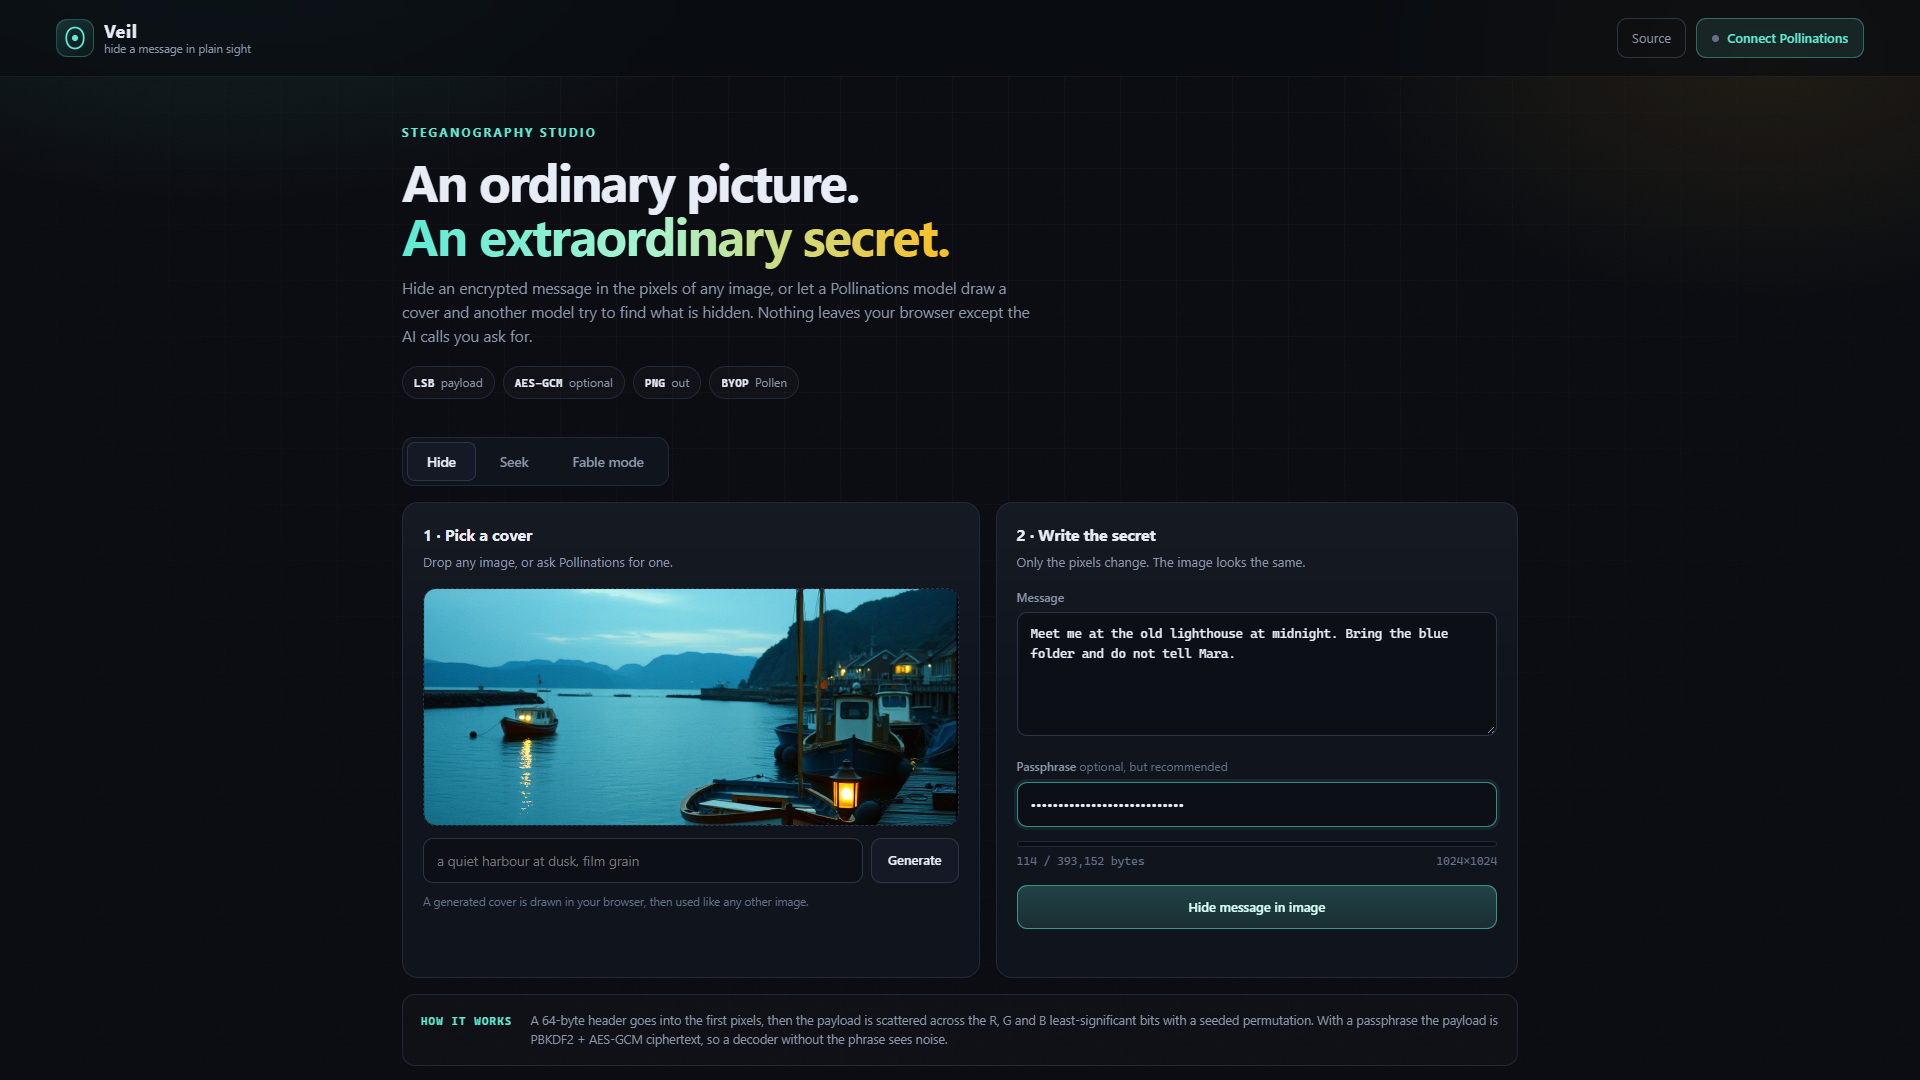
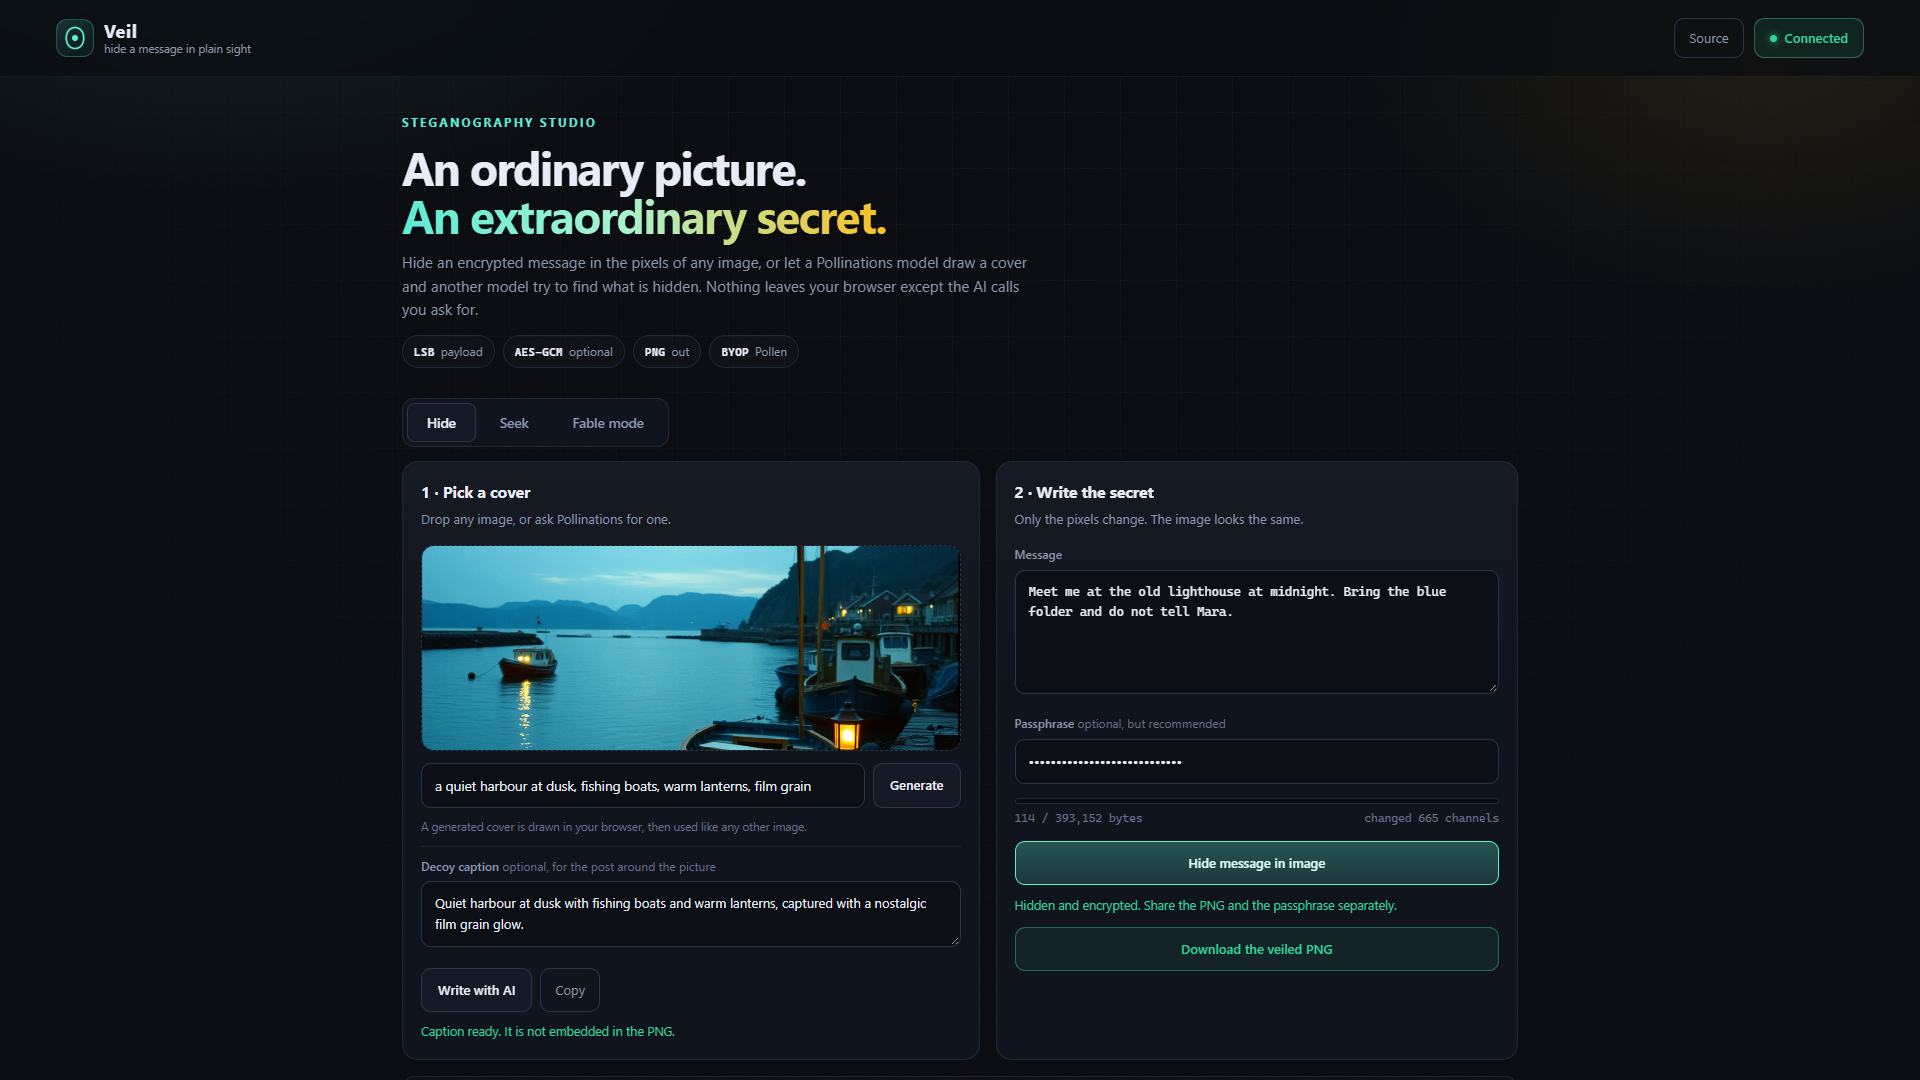
Add AI decoy captions and tighten the layout

diff --git a/styles.css b/styles.css
@@ -190,7 +190,7 @@ main {
 }
 
 .hero {
-    padding: clamp(28px, 4vw, 46px) 0 22px;
+    padding: clamp(24px, 3.4vw, 36px) 0 18px;
     max-width: 820px;
 }
 
@@ -205,7 +205,7 @@ main {
 
 .hero h1 {
     margin: 0;
-    font-size: clamp(32px, 4.4vw, 52px);
+    font-size: clamp(30px, 4vw, 46px);
     line-height: 1.04;
     letter-spacing: -0.035em;
     font-weight: 750;
@@ -219,17 +219,17 @@ main {
 }
 
 .lede {
-    margin: 14px 0 0;
+    margin: 12px 0 0;
     max-width: 640px;
     color: var(--muted);
-    font-size: 15.5px;
+    font-size: 15px;
 }
 
 .hero-meta {
     display: flex;
     flex-wrap: wrap;
     gap: 8px;
-    margin-top: 18px;
+    margin-top: 14px;
 }
 
 .hero-meta span {
@@ -255,7 +255,7 @@ main {
     display: inline-flex;
     gap: 4px;
     padding: 4px;
-    margin: 16px 0 16px;
+    margin: 12px 0 14px;
     border: 1px solid var(--line);
     border-radius: 12px;
     background: var(--panel);
@@ -324,7 +324,7 @@ main {
     border: 1px solid var(--line);
     border-radius: var(--radius);
     background: linear-gradient(180deg, rgba(255, 255, 255, 0.025), transparent 40%), var(--panel);
-    padding: 20px;
+    padding: 18px;
     min-width: 0;
 }
 
@@ -344,7 +344,7 @@ main {
     position: relative;
     display: grid;
     place-items: center;
-    min-height: 236px;
+    min-height: 204px;
     border: 1px dashed var(--line-2);
     border-radius: 13px;
     background:
@@ -364,7 +364,7 @@ main {
 .drop img {
     display: block;
     width: 100%;
-    height: 236px;
+    height: 204px;
     object-fit: cover;
 }
 
@@ -425,7 +425,7 @@ textarea:focus {
 
 textarea {
     resize: vertical;
-    min-height: 118px;
+    min-height: 96px;
     font-family: var(--mono);
     font-size: 12.5px;
     line-height: 1.6;
@@ -512,6 +512,26 @@ textarea {
     margin: 10px 0 0;
     color: var(--muted-2);
     font-size: 11.5px;
+}
+
+.decoy {
+    margin-top: 10px;
+    padding-top: 10px;
+    border-top: 1px solid var(--line);
+}
+
+.decoy textarea {
+    min-height: 58px;
+    font-family: var(--sans);
+    font-size: 13px;
+}
+
+.decoy .cover-row {
+    margin-top: 0;
+}
+
+.decoy .hint {
+    margin-top: 8px;
 }
 
 .capacity {

diff --git a/app.js b/app.js
@@ -714,6 +714,45 @@
         }
     });
 
+    $("decoyBtn").addEventListener("click", async () => {
+        if (!authKey) {
+            openAuth();
+            return;
+        }
+        const prompt = $("coverPrompt").value.trim() || "an ordinary photo";
+        $("decoyBtn").disabled = true;
+        setStatus($("decoyStatus"), "Writing…");
+        try {
+            const caption = await chat(
+                [
+                    {
+                        role: "system",
+                        content:
+                            "Write one short, innocuous caption for a photo, like a social post. No quotation marks, no hashtags, at most 20 words. Never hint that anything is hidden.",
+                    },
+                    { role: "user", content: `The photo: ${prompt}` },
+                ],
+                { maxTokens: 200, temperature: 1 },
+            );
+            $("decoy").value = caption.replace(/^["']|["']$/g, "").trim();
+            setStatus($("decoyStatus"), "Caption ready. It is not embedded in the PNG.", "ok");
+        } catch (error) {
+            setStatus($("decoyStatus"), error.message || "Could not write a caption.", "error");
+        } finally {
+            $("decoyBtn").disabled = false;
+        }
+    });
+
+    $("copyDecoy").addEventListener("click", async () => {
+        try {
+            await navigator.clipboard.writeText($("decoy").value || "");
+            $("copyDecoy").textContent = "Copied";
+            setTimeout(() => ($("copyDecoy").textContent = "Copy"), 1200);
+        } catch {
+            /* clipboard may be blocked */
+        }
+    });
+
     $("connectBtn").addEventListener("click", () => {
         if (authKey) {
             if (confirm("Disconnect this tab from Pollinations?")) clearKey();

diff --git a/index.html b/index.html
@@ -88,6 +88,18 @@
                             <button class="btn" id="coverBtn" type="button">Generate</button>
                         </div>
                         <p class="hint" id="coverStatus">A generated cover is drawn in your browser, then used like any other image.</p>
+
+                        <div class="decoy">
+                            <label class="field">
+                                <span>Decoy caption <em>optional, for the post around the picture</em></span>
+                                <textarea id="decoy" rows="2" placeholder="An innocent caption for the photo…"></textarea>
+                            </label>
+                            <div class="cover-row">
+                                <button class="btn" id="decoyBtn" type="button">Write with AI</button>
+                                <button class="ghost-btn" id="copyDecoy" type="button">Copy</button>
+                            </div>
+                            <p class="hint" id="decoyStatus">The caption lives outside the pixels; the secret stays hidden.</p>
+                        </div>
                     </article>
 
                     <article class="card">

diff --git a/README.md b/README.md
@@ -11,6 +11,7 @@ Veil is a browser-only steganography studio.
 - **Hide** a message in the least-significant bits of any image. Optional passphrase encrypts it with PBKDF2 + AES-GCM.
 - **Seek** a Veil PNG and read the message back. Everything is decoded locally.
 - **Generate a cover** with a Pollinations image model, then hide the message in it.
+- **Write a decoy caption** with a Pollinations text model, so the post around the picture has a plausible story.
 - **Fable mode** recreates the LessWrong experiment: one Pollinations model draws an SVG that hides a secret, then a fresh model gets the same source and tries to find it.
 
 ## Why it is different
